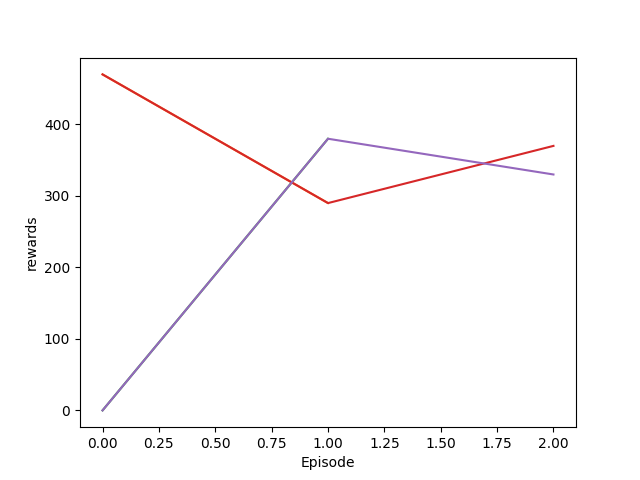
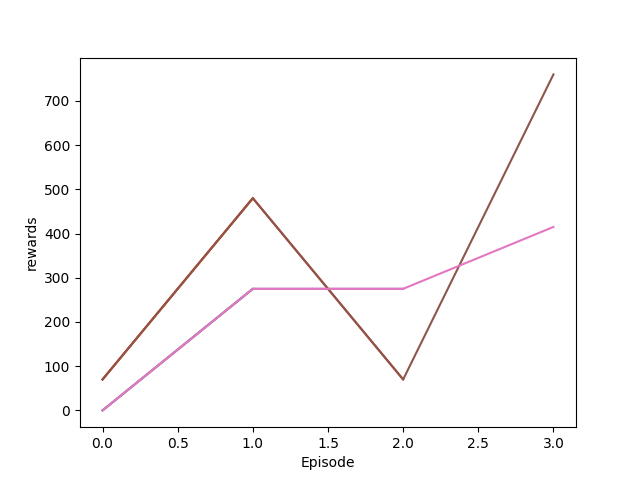
training with old game

diff --git a/pacman_agent.py b/pacman_agent.py
@@ -348,8 +348,8 @@ class PacmanAgent:
 
 if __name__ == "__main__":
     agent = PacmanAgent()
-    agent.load_model(name="1500-483756", eval=True)
+    #agent.load_model(name="1500-483756", eval=True)
     agent.rewards = []
     while True:
-        #agent.train()
-        agent.test()
+        agent.train()
+        #agent.test()
